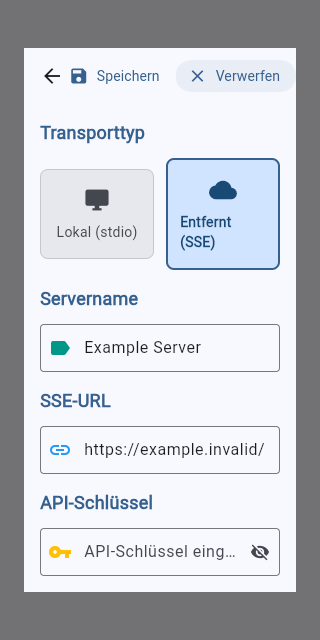
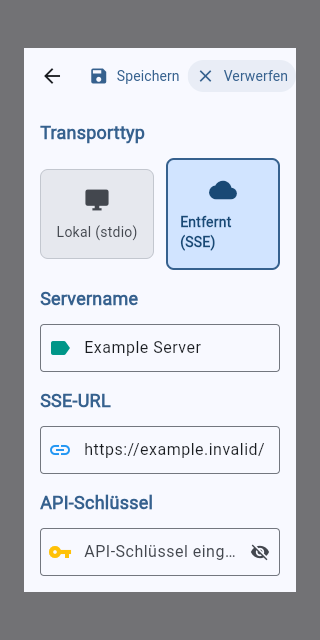
fix(mcp): fit action padding before reflow
Measure the effective button style at the active text scale. If only the default side padding prevents a normal 1× action row from fitting, reduce that padding while preserving labels and touch height; reflow only when the complete content still exceeds the available width.

Files: lib/pages/mcp_server_config_page.dart, tests/widgets/mcp_settings_test.dart, docs/ui-constrained-text-inventory.csv, docs/ui-constrained-text-qa/vertical-mcp-appbar-scale/README.md, docs/ui-constrained-text-qa/vertical-mcp-appbar-scale/mcp-edit-de-320x640-scale1-light.png

Changed region(s): [[0.2188, 0.0938, 0.4688, 0.1562], [0.5938, 0.0938, 0.9062, 0.125], [0.5, 0.0938, 0.5625, 0.125]]

diff --git a/lib/pages/mcp_server_config_page.dart b/lib/pages/mcp_server_config_page.dart
@@ -547,7 +547,15 @@ class _McpServerConfigDialogState
   @override
   Widget build(BuildContext context) {
     final cs = Theme.of(context).colorScheme;
-    final compactAppBar = _shouldUseCompactAppBar();
+    final actionWidths = _measureAppBarActionWidths();
+    final appBarActionSpace = _appBarActionSpace;
+    final hasActions = actionWidths.normalWidth > 0;
+    final compactAppBar = hasActions &&
+        actionWidths.normalWidth > appBarActionSpace &&
+        actionWidths.condensedWidth > appBarActionSpace;
+    final condensedAppBarActions = hasActions &&
+        actionWidths.normalWidth > appBarActionSpace &&
+        actionWidths.condensedWidth <= appBarActionSpace;
     final title = _isExistingConfig
         ? (_nameController.text.isNotEmpty
             ? _nameController.text
@@ -611,7 +619,9 @@ class _McpServerConfigDialogState
                 maxLines: 1,
                 overflow: TextOverflow.ellipsis,
               ),
-              actions: compactAppBar ? const [] : _buildAppBarActions(),
+              actions: compactAppBar
+                  ? const []
+                  : _buildAppBarActions(condensed: condensedAppBarActions),
               bottom: compactAppBar
                   ? PreferredSize(
                       preferredSize: Size.fromHeight(
@@ -947,7 +957,13 @@ class _McpServerConfigDialogState
   double get _compactActionHeight =>
       MediaQuery.textScalerOf(context).scale(1) >= 1.5 ? 72 : 48;
 
-  bool _shouldUseCompactAppBar() {
+  double get _appBarActionSpace {
+    final dialogWidth =
+        (MediaQuery.sizeOf(context).width - 48).clamp(0.0, 560.0).toDouble();
+    return dialogWidth - kToolbarHeight;
+  }
+
+  ({double normalWidth, double condensedWidth}) _measureAppBarActionWidths() {
     final labels = _isEditMode
         ? [
             _isSaving
@@ -958,10 +974,11 @@ class _McpServerConfigDialogState
         : _isExistingConfig
             ? [AppLocalizations.of(context)!.imagePreviewEdit]
             : const <String>[];
-    if (labels.isEmpty) return false;
+    if (labels.isEmpty) return (normalWidth: 0, condensedWidth: 0);
 
     final textScaler = MediaQuery.textScalerOf(context);
-    final actionsWidth = labels.fold<double>(0, (width, label) {
+    return labels.fold<({double normalWidth, double condensedWidth})>(
+        (normalWidth: 0, condensedWidth: 0), (widths, label) {
       final button = TextButton.icon(
         onPressed: null,
         icon: const Icon(Icons.save, size: 20),
@@ -969,6 +986,11 @@ class _McpServerConfigDialogState
       );
       final themeStyle = button.themeStyleOf(context);
       final defaultStyle = button.defaultStyleOf(context);
+      final buttonPadding = (button.style?.padding?.resolve(const {}) ??
+              themeStyle?.padding?.resolve(const {}) ??
+              defaultStyle.padding?.resolve(const {}) ??
+              EdgeInsets.zero)
+          .resolve(Directionality.of(context));
       final labelStyle = button.style?.textStyle?.resolve(const {}) ??
           themeStyle?.textStyle?.resolve(const {}) ??
           defaultStyle.textStyle?.resolve(const {}) ??
@@ -985,16 +1007,22 @@ class _McpServerConfigDialogState
           _isSaving && label == AppLocalizations.of(context)!.mcpSaving
               ? 16.0
               : 20.0;
-      // Reflow only when the complete label, icon, gap, and minimum button
-      // width do not fit. Use the active TextButton theme and text scale.
-      final intrinsicWidth = painter.width + iconWidth + iconGap;
-      return width + intrinsicWidth.clamp(64.0, double.infinity).toDouble();
+      final contentWidth = painter.width + iconWidth + iconGap;
+      final minimumWidth =
+          (button.style?.minimumSize?.resolve(const {})?.width ??
+                  themeStyle?.minimumSize?.resolve(const {})?.width ??
+                  defaultStyle.minimumSize?.resolve(const {})?.width ??
+                  64.0)
+              .toDouble();
+      return (
+        normalWidth: widths.normalWidth +
+            (contentWidth + buttonPadding.horizontal)
+                .clamp(minimumWidth, double.infinity)
+                .toDouble(),
+        condensedWidth: widths.condensedWidth +
+            (contentWidth + 16).clamp(minimumWidth, double.infinity).toDouble(),
+      );
     });
-    // Preserve the current AppBar row until the localized action buttons, using
-    // the active TextButton.icon theme, exceed the room beside the leading icon.
-    final dialogWidth =
-        (MediaQuery.sizeOf(context).width - 48).clamp(0.0, 560.0).toDouble();
-    return actionsWidth > dialogWidth - kToolbarHeight;
   }
 
   List<Widget> _buildCompactAppBarActions() {
@@ -1033,7 +1061,12 @@ class _McpServerConfigDialogState
     return const [];
   }
 
-  List<Widget> _buildAppBarActions() {
+  List<Widget> _buildAppBarActions({required bool condensed}) {
+    final actionStyle = condensed
+        ? TextButton.styleFrom(
+            padding: const EdgeInsetsDirectional.fromSTEB(8, 8, 8, 8),
+          )
+        : null;
     if (_isEditMode) {
       final saveLabel = _isSaving
           ? AppLocalizations.of(context)!.mcpSaving
@@ -1042,6 +1075,7 @@ class _McpServerConfigDialogState
       return [
         TextButton.icon(
           onPressed: _isSaving ? null : _save,
+          style: actionStyle,
           icon: _isSaving
               ? const SizedBox(
                   width: 16,
@@ -1057,6 +1091,7 @@ class _McpServerConfigDialogState
         ),
         TextButton.icon(
           onPressed: _isSaving ? null : _discardChanges,
+          style: actionStyle,
           icon: const Icon(Icons.close, size: 20),
           label: ConstrainedText(
             discardLabel,
@@ -1069,6 +1104,7 @@ class _McpServerConfigDialogState
     return [
       if (_isExistingConfig)
         TextButton.icon(
+          style: actionStyle,
           icon: const Icon(Icons.edit, size: 20),
           label: ConstrainedText(
             AppLocalizations.of(context)!.imagePreviewEdit,

diff --git a/tests/widgets/mcp_settings_test.dart b/tests/widgets/mcp_settings_test.dart
@@ -329,6 +329,36 @@ void main() {
         Navigator.of(frenchContext, rootNavigator: true).pop();
         await tester.pump();
         await frenchDialogResult;
+
+        tester.view.physicalSize = const Size(360, 640);
+        await tester.pumpWidget(
+          _buildTestApp(
+            locale: const Locale('en', 'US'),
+            home: const SizedBox(key: Key('mcp-en-test-host')),
+          ),
+        );
+        await tester.pump();
+        final englishContext =
+            tester.element(find.byKey(const Key('mcp-en-test-host')));
+        final englishDialogResult = showMcpServerConfigDialog(
+          context: englishContext,
+          entryId: 'missing-mcp-entry',
+          configIndex: -1,
+        );
+        await tester.pump(const Duration(milliseconds: 100));
+        expect(tester.takeException(), isNull);
+        final englishAppBar = tester.getRect(find.byType(AppBar).last);
+        expect(englishAppBar.height, lessThan(80));
+        for (final label in ['Save', 'Discard']) {
+          final labelRect = tester.getRect(find.text(label));
+          expect(labelRect.left, greaterThanOrEqualTo(englishAppBar.left));
+          expect(labelRect.right, lessThanOrEqualTo(englishAppBar.right));
+          expect(labelRect.top, greaterThanOrEqualTo(englishAppBar.top));
+          expect(labelRect.bottom, lessThanOrEqualTo(englishAppBar.bottom));
+        }
+        Navigator.of(englishContext, rootNavigator: true).pop();
+        await tester.pump();
+        await englishDialogResult;
       },
     );
 

diff --git a/docs/ui-constrained-text-qa/vertical-mcp-appbar-scale/README.md b/docs/ui-constrained-text-qa/vertical-mcp-appbar-scale/README.md
@@ -3,9 +3,10 @@
 The production `showMcpServerConfigDialog` was rendered at 320 × 640 CSS px,
 device pixel ratio 1, Material 3 light theme. The primary 1× capture uses
 English (United States); Save and Discard keep their existing horizontal
-AppBar row. The German (`de-DE`) 1× capture also keeps the original horizontal
-row. The supplemental 2× German capture moves Save and Discard below the title
-when the complete labels and icons no longer fit, and both remain operable.
+AppBar row. The German (`de-DE`) 1× capture also stays horizontal; the dialog
+uses narrower side padding only if the default button padding would exceed the
+available row. The supplemental 2× German capture moves Save and Discard below
+the title when the complete labels and icons still do not fit.
 Neither capture has a focused control or an open keyboard. The in-memory MCP
 fixture uses an `example.invalid` endpoint and makes no provider or network
 request.
@@ -16,10 +17,11 @@ request.
 
 Before the fix, the focused 320 × 640 German widget run produced horizontal
 RenderFlex overflows of 94 px at 1× and 298 px at 2×. The regression test now
-checks those narrow states, covers French at 360 × 640/1× and the wide 1×
-layout, verifies both action bounds, native field focus and keyboard visibility,
-and Discard returning to read-only mode. The production captures show the
-horizontal German 1× row and the reflow at 2×. Run the test with:
+checks those narrow states, French at 360 × 640/1×, the horizontal English row
+at 360 × 640/1×, and the wide 1× layout. It verifies action bounds, native field
+focus and keyboard visibility, and Discard returning to read-only mode. The
+production captures show the horizontal German 1× row and the reflow at 2×.
+Run the test with:
 
 ```sh
 flutter test --reporter expanded --plain-name \
